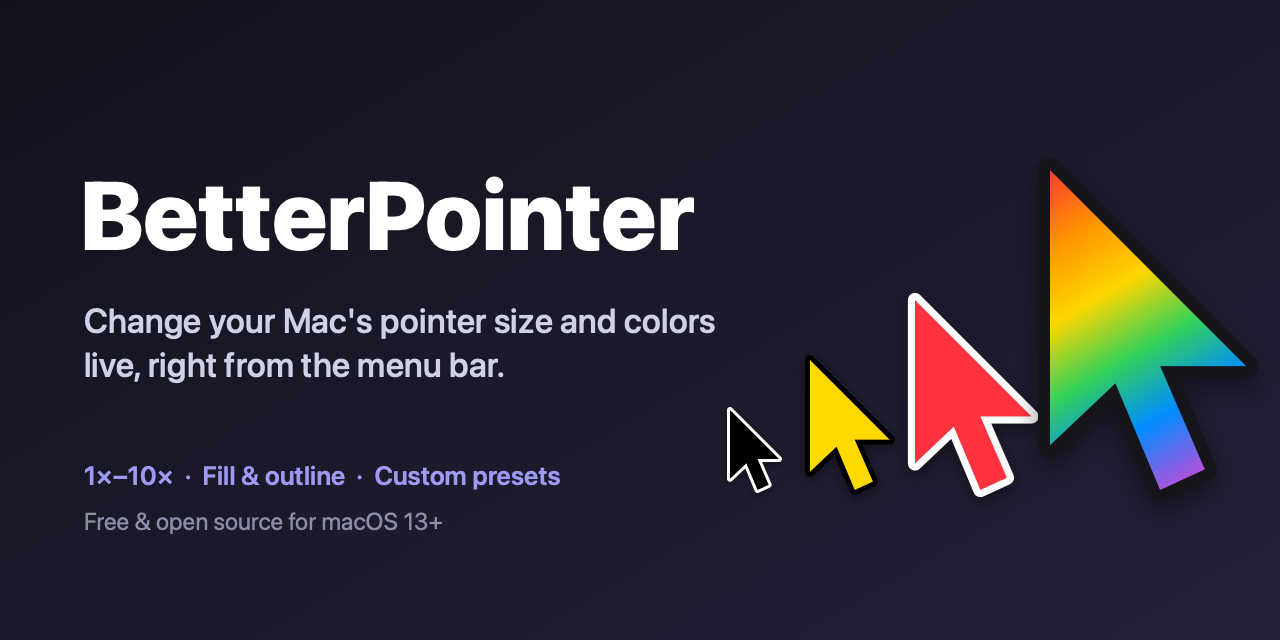
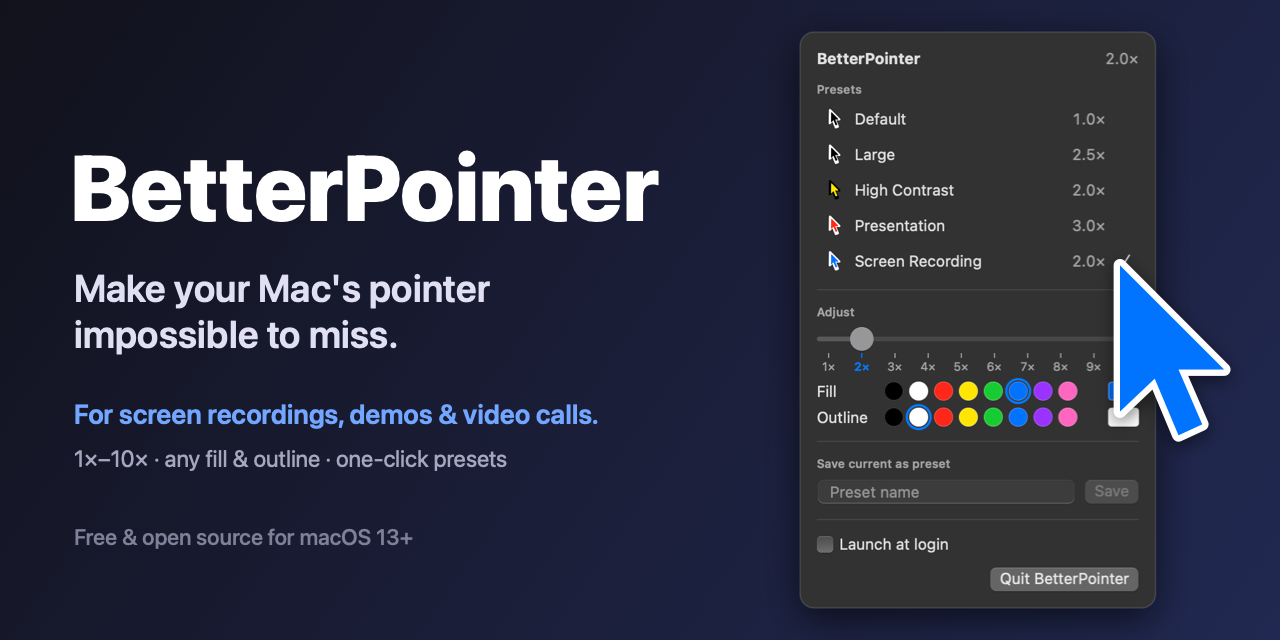
Share image from the real menu, use cases, Screen Recording preset
- Render the actual menu UI to docs/menu*.png (scripts/snapshot-menu.sh)
- Rebuild the social preview around that screenshot
- README: menu screenshot and a 'What it's for' section
- New built-in preset: Screen Recording (2x, blue fill, white outline)

diff --git a/scripts/make_social.swift b/scripts/make_social.swift
@@ -10,13 +10,13 @@ NSGraphicsContext.saveGraphicsState()
 NSGraphicsContext.current = NSGraphicsContext(bitmapImageRep: rep)
 let ctx = NSGraphicsContext.current!.cgContext
 
-func srgb(_ r: CGFloat, _ g: CGFloat, _ b: CGFloat) -> NSColor { NSColor(srgbRed: r, green: g, blue: b, alpha: 1) }
+func srgb(_ r: CGFloat, _ g: CGFloat, _ b: CGFloat, _ a: CGFloat = 1) -> NSColor { NSColor(srgbRed: r, green: g, blue: b, alpha: a) }
 
 // Background
-NSGradient(colors: [srgb(0.07, 0.07, 0.11), srgb(0.14, 0.13, 0.22)])!.draw(in: NSRect(x: 0, y: 0, width: W, height: H), angle: -60)
+NSGradient(colors: [srgb(0.07, 0.07, 0.11), srgb(0.13, 0.16, 0.32)])!.draw(in: NSRect(x: 0, y: 0, width: W, height: H), angle: -35)
 
 /// Classic arrow pointer with its tip at `tip` (origin bottom-left), `height` tall.
-func pointer(tip: CGPoint, height: CGFloat, fill: [NSColor], outline: NSColor) {
+func pointer(tip: CGPoint, height: CGFloat, fill: NSColor, outline: NSColor) {
     let unit: [CGPoint] = [(0, 0), (0, 0.80), (0.19, 0.62), (0.32, 0.93), (0.45, 0.87), (0.32, 0.57), (0.57, 0.57)]
         .map { CGPoint(x: $0.0, y: $0.1) }
     let s = height / 0.93
@@ -28,35 +28,45 @@ func pointer(tip: CGPoint, height: CGFloat, fill: [NSColor], outline: NSColor) {
     path.close()
     path.lineJoinStyle = .round
     ctx.saveGState()
-    ctx.setShadow(offset: CGSize(width: 0, height: -height * 0.03), blur: height * 0.08,
-                  color: NSColor.black.withAlphaComponent(0.45).cgColor)
+    ctx.setShadow(offset: CGSize(width: 0, height: -height * 0.03), blur: height * 0.1,
+                  color: NSColor.black.withAlphaComponent(0.5).cgColor)
     outline.setStroke(); path.lineWidth = height * 0.075; path.stroke()
     ctx.restoreGState()
-    if fill.count > 1 { NSGradient(colors: fill)!.draw(in: path, angle: -60) } else { fill[0].setFill(); path.fill() }
+    fill.setFill(); path.fill()
 }
 
-// Text
 func text(_ s: String, at p: CGPoint, size: CGFloat, weight: NSFont.Weight, color: NSColor) {
     NSAttributedString(string: s, attributes: [.font: NSFont.systemFont(ofSize: size, weight: weight), .foregroundColor: color])
         .draw(at: p)
 }
-text("BetterPointer", at: CGPoint(x: 80, y: 370), size: 96, weight: .heavy, color: .white)
-text("Change your Mac's pointer size and colors", at: CGPoint(x: 84, y: 300), size: 34, weight: .medium, color: srgb(0.82, 0.82, 0.9))
-text("live, right from the menu bar.", at: CGPoint(x: 84, y: 256), size: 34, weight: .medium, color: srgb(0.82, 0.82, 0.9))
-text("1×–10×  ·  Fill & outline  ·  Custom presets", at: CGPoint(x: 84, y: 150), size: 26, weight: .semibold,
-     color: srgb(0.62, 0.6, 0.95))
-text("Free & open source for macOS 13+", at: CGPoint(x: 84, y: 105), size: 24, weight: .regular, color: srgb(0.55, 0.55, 0.65))
+text("BetterPointer", at: CGPoint(x: 70, y: 400), size: 92, weight: .heavy, color: .white)
+text("Make your Mac's pointer", at: CGPoint(x: 74, y: 330), size: 38, weight: .semibold, color: srgb(0.88, 0.88, 0.95))
+text("impossible to miss.", at: CGPoint(x: 74, y: 284), size: 38, weight: .semibold, color: srgb(0.88, 0.88, 0.95))
+text("For screen recordings, demos & video calls.", at: CGPoint(x: 74, y: 210), size: 27, weight: .semibold,
+     color: srgb(0.45, 0.65, 1))
+text("1×–10× · any fill & outline · one-click presets", at: CGPoint(x: 74, y: 168), size: 23, weight: .regular,
+     color: srgb(0.65, 0.65, 0.75))
+text("Free & open source for macOS 13+", at: CGPoint(x: 74, y: 90), size: 22, weight: .medium, color: srgb(0.5, 0.5, 0.6))
 
-// Pointers growing in size and style, bottoms aligned
-let rainbow = [srgb(1, 0.23, 0.19), srgb(1, 0.58, 0), srgb(1, 0.84, 0), srgb(0.2, 0.82, 0.35), srgb(0, 0.55, 1), srgb(0.69, 0.32, 0.87)]
-let base: CGFloat = 150
-let styles: [(x: CGFloat, h: CGFloat, fill: [NSColor], outline: NSColor)] = [
-    (730, 80, [.black], .white),
-    (810, 130, [srgb(1, 0.85, 0)], .black),
-    (915, 190, [srgb(1, 0.2, 0.25)], .white),
-    (1050, 320, rainbow, srgb(0.08, 0.08, 0.1)),
-]
-for st in styles { pointer(tip: CGPoint(x: st.x, y: base + st.h), height: st.h, fill: st.fill, outline: st.outline) }
+// The real menu, rendered by scripts/snapshot-menu.sh
+let menu = NSImage(contentsOfFile: "docs/menu-dark.png")!
+let menuH: CGFloat = 576
+let menuW = menuH * menu.size.width / menu.size.height
+let menuRect = NSRect(x: 800, y: (H - menuH) / 2, width: menuW, height: menuH)
+let clip = NSBezierPath(roundedRect: menuRect, xRadius: 14, yRadius: 14)
+ctx.saveGState()
+ctx.setShadow(offset: CGSize(width: 0, height: -12), blur: 40, color: NSColor.black.withAlphaComponent(0.6).cgColor)
+srgb(0.18, 0.18, 0.2).setFill(); clip.fill()
+ctx.restoreGState()
+ctx.saveGState()
+clip.addClip()
+menu.draw(in: menuRect)
+ctx.restoreGState()
+srgb(1, 1, 1, 0.12).setStroke(); clip.lineWidth = 1.5; clip.stroke()
+
+// Big pointer in the "Screen Recording" preset's colors, tapping its row
+let rowY = menuRect.maxY - menuH * (387.0 / 972.0)
+pointer(tip: CGPoint(x: menuRect.minX + menuW * 0.9, y: rowY - 4), height: 170, fill: srgb(0, 0.45, 1), outline: .white)
 
 NSGraphicsContext.restoreGraphicsState()
 try! rep.representation(using: .png, properties: [:])!.write(to: URL(fileURLWithPath: "docs/social-preview.png"))

diff --git a/scripts/snapshot/main.swift b/scripts/snapshot/main.swift
@@ -1,0 +1,41 @@
+// Renders the real menu UI to a PNG for the README and share image.
+// Built by scripts/snapshot-menu.sh; does not change the system pointer.
+import AppKit
+import SwiftUI
+
+@main
+enum SnapshotMenu {
+    @MainActor
+    static func main() {
+        let output = CommandLine.arguments.count > 1 ? CommandLine.arguments[1] : "docs/menu.png"
+        let dark = CommandLine.arguments.contains("--dark")
+        let app = NSApplication.shared
+        app.setActivationPolicy(.accessory)
+
+        let preset = Preset.builtIns.first { $0.name == "Screen Recording" }!
+        let store = PointerStore(snapshotOf: preset)
+        let root = MenuView()
+            .environmentObject(store)
+            .background(Color(nsColor: .windowBackgroundColor))
+            .environment(\.colorScheme, dark ? .dark : .light)
+        let host = NSHostingView(rootView: root)
+        host.appearance = NSAppearance(named: dark ? .darkAqua : .aqua)
+        host.frame.size = host.fittingSize
+
+        let window = NSWindow(contentRect: host.frame, styleMask: .borderless, backing: .buffered, defer: false)
+        window.appearance = host.appearance
+        window.contentView = host
+        window.setFrameOrigin(NSPoint(x: -10_000, y: -10_000)) // offscreen
+        window.orderFrontRegardless()
+        host.layoutSubtreeIfNeeded()
+
+        DispatchQueue.main.asyncAfter(deadline: .now() + 0.5) {
+            let rep = host.bitmapImageRepForCachingDisplay(in: host.bounds)!
+            host.cacheDisplay(in: host.bounds, to: rep)
+            try! rep.representation(using: .png, properties: [:])!.write(to: URL(fileURLWithPath: output))
+            print("Wrote \(output) (\(rep.pixelsWide)×\(rep.pixelsHigh))")
+            exit(0)
+        }
+        app.run()
+    }
+}

diff --git a/Sources/PointerStore.swift b/Sources/PointerStore.swift
@@ -18,6 +18,8 @@ final class PointerStore: ObservableObject {
     private var persistSizeWork: DispatchWorkItem?
     private var applyColorsWork: DispatchWorkItem?
     private let colorPanel = ColorPanelBridge()
+    /// Set for README screenshots: shows fixed values and never touches the system.
+    private var isSnapshot = false
 
     init() {
         // The system only keeps up to 4×, so restore a larger size ourselves.
@@ -34,6 +36,15 @@ final class PointerStore: ObservableObject {
         loadPresets()
     }
 
+    /// A store showing `preset` as the current pointer, for rendering screenshots.
+    init(snapshotOf preset: Preset) {
+        size = preset.size
+        fill = preset.fill
+        outline = preset.outline
+        hasFullDiskAccess = true
+        isSnapshot = true
+    }
+
     var allPresets: [Preset] { Preset.builtIns + customPresets }
 
     var activePresetID: UUID? {
@@ -44,6 +55,7 @@ final class PointerStore: ObservableObject {
 
     /// Re-reads system state, e.g. after the user changed it in System Settings.
     func refresh() {
+        guard !isSnapshot else { return }
         size = CursorController.size
         fill = CursorController.fill ?? fill
         outline = CursorController.outline ?? outline

diff --git a/Sources/Preset.swift b/Sources/Preset.swift
@@ -57,6 +57,7 @@ struct Preset: Identifiable, Codable, Hashable {
         builtIn(2, "Large", size: 2.5, fill: .black, outline: .white),
         builtIn(3, "High Contrast", size: 2, fill: .yellow, outline: .black),
         builtIn(4, "Presentation", size: 3, fill: .red, outline: .white),
+        builtIn(5, "Screen Recording", size: 2, fill: RGBA(red: 0, green: 0.45, blue: 1), outline: .white),
     ]
 
     /// Built-ins get fixed IDs so they stay stable across launches.

diff --git a/README.md b/README.md
@@ -4,9 +4,28 @@
 
 A macOS menu bar app (macOS 13+) that changes the system pointer's size (1–10×), fill color, and outline color live, without opening System Settings.
 
-- Built-in presets: Default, Large, High Contrast, Presentation
+- Built-in presets: Default, Large, High Contrast, Presentation, Screen Recording
 - Custom presets: save, rename/update, delete (stored in UserDefaults)
 - Launch at login
+
+<img src="docs/menu-dark.png" width="300" alt="The BetterPointer menu">
+
+## What it's for
+
+A tiny pointer is fine when you're the only one looking at the screen. It gets lost as soon as someone else is watching, or when the screen is big, busy, or compressed.
+
+- **Screen recordings and tutorials.** Loom, QuickTime, OBS, ScreenFlow, Descript: viewers follow the pointer, and at normal size it vanishes, especially once the video is scaled down or cropped for social.
+- **Live demos and presentations.** Projectors and conference screens make the default pointer unreadable from the back of the room. One click to a big red pointer, one click back.
+- **Screen sharing on calls.** Zoom, Meet, and Teams compress your screen, and small pointers smear into the background. "Do you see where I'm pointing?" stops being a question.
+- **Teaching, pair programming, and streaming.** Students, teammates, and viewers can follow along without you narrating every click.
+- **Product videos and App Store previews.** A consistent, branded pointer color looks deliberate in marketing footage.
+- **Usability testing.** Recordings of test sessions are much easier to review when you can see what the participant is aiming at.
+- **Low vision and tired eyes.** Bigger, higher-contrast pointers help anyone who loses the pointer, without digging through Accessibility settings each time.
+- **Big, high-resolution, or multi-monitor setups.** Find the pointer instantly on a 5K display or across three screens.
+- **Dark mode and busy backgrounds.** A light or colored pointer stays visible on dark apps, photos, maps, and video editors.
+- **Helping someone remotely.** Make the pointer obvious when you're guiding a family member or customer through their own Mac.
+
+Presets make the switching fast: keep "Default" for everyday work, and flip to "Screen Recording" or "Presentation" right before you hit record or share.
 
 ## Build
 
@@ -28,7 +47,7 @@ ARCH=universal ./build.sh
 
 Run `scripts/setup-signing.sh` once per Mac. It creates a self-signed "BetterPointer Self-Signed" certificate in your login keychain, and `build.sh` signs with it automatically. That gives the app a stable identity, so Full Disk Access survives rebuilds. Without it, builds are ad-hoc signed and you must remove and re-add BetterPointer in Full Disk Access after every build. Override with `SIGN_IDENTITY="Developer ID Application: …"`.
 
-The social preview is generated by `swift scripts/make_social.swift`. The icon is generated by `swift scripts/make_icon.swift && iconutil -c icns build/AppIcon.iconset -o Resources/AppIcon.icns`.
+The menu screenshots are rendered by `scripts/snapshot-menu.sh` and the social preview by `swift scripts/make_social.swift` (run in that order). The icon is generated by `swift scripts/make_icon.swift && iconutil -c icns build/AppIcon.iconset -o Resources/AppIcon.icns`.
 
 ## Layout
 
